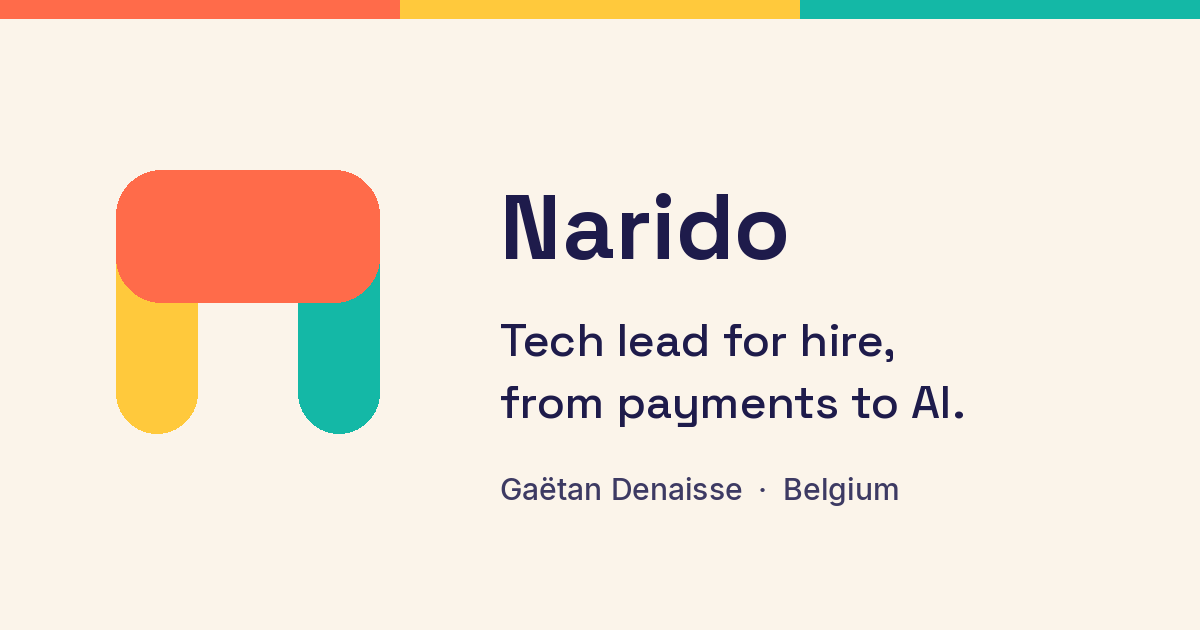
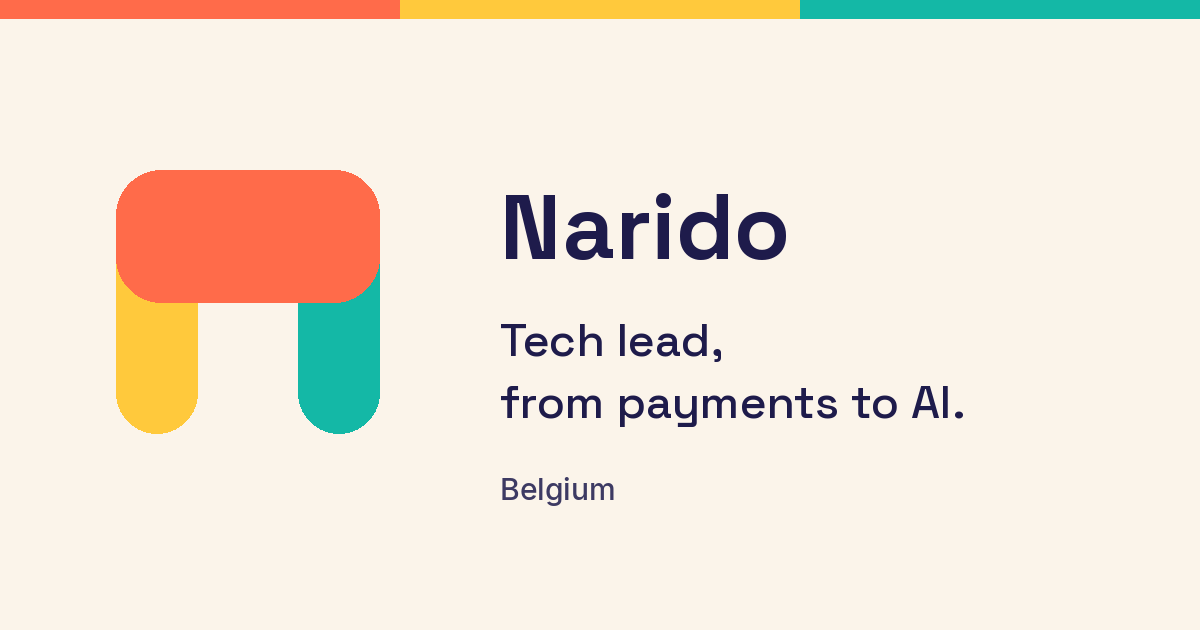
Frame the hero blocks and write the site as Narido.
Keep the blocks fully in view on load, drop the solo and "for hire" wording, and publish VAT BE1010525808 while the address stays off the page.

Changed region(s): [[0.4008, 0.754, 0.6167, 0.8143], [0.5858, 0.5127, 0.74, 0.573], [0.6475, 0.754, 0.74, 0.8143]]

diff --git a/src/i18n/en.ts b/src/i18n/en.ts
@@ -3,69 +3,69 @@ import type { SiteCopy } from './types';
 export const en: SiteCopy = {
   meta: {
     lang: 'en',
-    title: 'Narido: tech lead for hire, from payments to AI',
+    title: 'Narido: tech lead, from payments to AI',
     description:
-      'Gaëtan Denaisse, a one-person IT company in Belgium. Tech lead for hire across payments, cloud, DevOps, delivery, and AI. More than 20 years, still hands-on.',
-    ogAlt: 'Narido. Tech lead for hire, from payments to AI. Gaëtan Denaisse, Belgium.',
+      'Narido is an IT company in Belgium. Technical leadership across payments, cloud, DevOps, delivery, and AI. More than 20 years, still hands-on.',
+    ogAlt: 'Narido. Tech lead, from payments to AI. Belgium.',
   },
   nav: {
     home: 'Narido, front page',
-    services: 'What I do',
+    services: 'Services',
     work: 'Work',
     background: 'Background',
     contact: 'Contact',
     menu: 'Menu',
     close: 'Close menu',
-    cta: 'Write to me',
+    cta: 'Get in touch',
     skip: 'Skip to content',
     landmark: 'On this page',
   },
   hero: {
-    eyebrow: 'Belgium · one-person company',
-    titleLead: 'Tech lead for hire,',
+    eyebrow: 'Belgium',
+    titleLead: 'Tech lead,',
     titleTail: 'from payments to AI.',
-    lede: 'I am Gaëtan. I have spent more than 20 years writing software and leading the people who write it. Most of that time went into payments, and into moving systems to the cloud without drama. I still do the work myself, including the AI work.',
-    primary: 'Write to me',
+    lede: 'Narido leads the technical work on products that have to hold up, from payments platforms through cloud moves and on to release. AI sits in that same work now.',
+    primary: 'Get in touch',
     secondary: 'See the work',
   },
   services: {
-    title: 'What I do',
+    title: 'Services',
     intro:
-      'I come in as a technical lead for a stretch of time. I stay close to the code. When I leave, the team can carry the work.',
+      'Narido joins a team for a stretch of work and stays close to the code. When the engagement ends, the team can carry it.',
     items: [
       {
         id: 'lead',
         index: '01',
         accent: 'coral',
         title: 'Tech lead / fractional CTO',
-        text: 'Some teams call this a fractional CTO. I hold the technical thread on a product: architecture, priorities, code review, and the decisions that are easy to postpone. When the team is blocked, I write the code.',
+        text: 'Some teams call this a fractional CTO. Narido holds the technical thread on a product: architecture, priorities, code review, and the decisions that are easy to postpone. When a team is blocked, Narido writes the code.',
       },
       {
         id: 'cloud',
         index: '02',
         accent: 'sunflower',
         title: 'Cloud & DevOps',
-        text: 'I move systems to the cloud and leave the pipelines and environments behind me. A release should be a command, not a ritual that depends on someone remembering the steps.',
+        text: 'Systems move to the cloud with the pipelines and environments left in place. A release should be a command, not a ritual that depends on someone remembering the steps.',
       },
       {
         id: 'ai',
         index: '03',
         accent: 'teal',
         title: 'AI adoption',
-        text: 'I put AI into a job the team already has. A report that used to take an afternoon. A first pass over a pile of documents. I set it up so a person can check the result before it goes out.',
+        text: 'AI goes into a job the team already has. A report that used to take an afternoon. A first pass over a pile of documents. A person can check the result before it goes out.',
       },
       {
         id: 'quality',
         index: '04',
         accent: 'ink',
         title: 'Quality & delivery',
-        text: 'I shorten the distance between a change and production. Fewer tests, aimed at the failures that actually hurt. Releases small enough that a problem is easy to find.',
+        text: 'The distance between a change and production gets shorter. Fewer tests, aimed at the failures that actually hurt. Releases small enough that a problem is easy to find.',
       },
     ],
   },
   work: {
-    title: "Things I've built",
-    intro: 'A few products from recent work. Ask if you want the story behind one of them.',
+    title: 'Selected work',
+    intro: 'Recent products. The detail behind any of them is available on request.',
     visit: 'Visit',
     newTab: 'opens in a new tab',
     projects: [
@@ -119,8 +119,7 @@ export const en: SiteCopy = {
   },
   background: {
     title: 'Background',
-    intro:
-      'More than 20 years of hands-on work. Narido is just me. I stay with a system until it holds.',
+    intro: 'More than 20 years of hands-on work. Narido stays with a system until it holds.',
     eras: [
       {
         id: 'payments',
@@ -144,7 +143,7 @@ export const en: SiteCopy = {
         id: 'quality',
         accent: 'coral',
         title: 'Quality engineering',
-        text: 'Checks placed where a bad release would actually be caught. I would rather have a few sharp tests than a board full of green.',
+        text: 'Checks placed where a bad release would actually be caught. A few sharp tests, rather than a board full of green.',
       },
       {
         id: 'delivery',
@@ -156,14 +155,14 @@ export const en: SiteCopy = {
         id: 'ai',
         accent: 'teal',
         title: 'AI adoption for teams',
-        text: 'The recent work. I add AI to products and to the way a team produces them. Same rule as the rest: someone can read the output and stand behind it.',
+        text: 'The recent work. AI added to products and to the way a team produces them. Same rule as the rest: someone can read the output and stand behind it.',
       },
     ],
   },
   contact: {
     title: 'Contact',
     intro:
-      'Tell me what you are trying to ship. A few sentences on the product, and where it is stuck, is enough.',
+      'Say what you are trying to ship. A few sentences on the product, and where it is stuck, is enough.',
     name: 'Name',
     emailLabel: 'Email',
     need: 'What do you need',
@@ -188,15 +187,14 @@ export const en: SiteCopy = {
     country: 'Belgium',
     countryLabel: 'Country',
     vatLabel: 'VAT',
+    vat: 'BE1010525808',
     addressLabel: 'Address',
-    vatTodo: 'TODO: Belgian VAT number',
-    addressTodo: 'TODO: address',
-    placeholderLabel: 'Placeholders, still to fill in',
+    address: 'TODO: address',
     email: 'hello@narido.eu',
     linkedinUrl: 'https://linkedin.com/in/gaetandenaisse',
   },
   footer: {
-    positioning: 'Tech lead for hire, from payments to AI.',
+    positioning: 'Tech lead, from payments to AI.',
     rights: 'Gaëtan Denaisse',
   },
   notFound: {

diff --git a/src/scripts/hero-scene.ts b/src/scripts/hero-scene.ts
@@ -1,4 +1,5 @@
 import {
+  Box3,
   CanvasTexture,
   CircleGeometry,
   DirectionalLight,
@@ -12,6 +13,7 @@ import {
   Scene,
   SRGBColorSpace,
   Timer,
+  Vector3,
   WebGLRenderer,
 } from "three";
 import { RoundedBoxGeometry } from "three/addons/geometries/RoundedBoxGeometry.js";
@@ -93,9 +95,9 @@ export function mountHero(
   renderer.outputColorSpace = SRGBColorSpace;
 
   const scene = new Scene();
-  const camera = new PerspectiveCamera(28, 1, 0.1, 40);
-  camera.position.set(0.1, 0.2, 8);
-  camera.lookAt(0, -0.05, 0);
+  const camera = new PerspectiveCamera(30, 1, 0.1, 80);
+  camera.position.set(0, 0, 12);
+  camera.lookAt(0, 0, 0);
 
   scene.add(new HemisphereLight(0xfff8ef, 0xd9d0c3, 1.15));
   const key = new DirectionalLight(0xffffff, 1.7);
@@ -155,6 +157,61 @@ export function mountHero(
   let visible = true;
   let sized = false;
 
+  const bounds = new Box3();
+  const corner = new Vector3();
+
+  function applyPose(snap: number, elapsed: number): void {
+    const settled = MathUtils.clamp(snap, 0, 1);
+    const floatAmp = 1 - settled;
+    BLOCKS.forEach((spec, index) => {
+      const mesh = meshes[index];
+      if (!mesh) return;
+      mesh.position.set(
+        MathUtils.lerp(spec.spreadPos[0], spec.stackPos[0], snap),
+        MathUtils.lerp(spec.spreadPos[1], spec.stackPos[1], snap) +
+          Math.sin(elapsed * 0.9 + spec.phase) * 0.07 * floatAmp,
+        MathUtils.lerp(spec.spreadPos[2], spec.stackPos[2], snap),
+      );
+      mesh.rotation.set(
+        MathUtils.lerp(spec.spreadRot[0], 0, snap),
+        MathUtils.lerp(spec.spreadRot[1], 0, snap),
+        MathUtils.lerp(spec.spreadRot[2], 0, snap),
+      );
+    });
+  }
+
+  function spreadRadius(): number {
+    group.rotation.set(0, 0, 0);
+    applyPose(0, 0);
+    group.updateMatrixWorld(true);
+    let max = 0;
+    for (const mesh of meshes) {
+      bounds.setFromObject(mesh);
+      for (const x of [bounds.min.x, bounds.max.x]) {
+        for (const y of [bounds.min.y, bounds.max.y]) {
+          for (const z of [bounds.min.z, bounds.max.z]) {
+            corner.set(x, y, z);
+            max = Math.max(max, corner.length());
+          }
+        }
+      }
+    }
+    return max + 0.16;
+  }
+
+  function frameCamera(): void {
+    const radius = spreadRadius();
+    const vFov = MathUtils.degToRad(camera.fov);
+    const aspect = Math.max(camera.aspect || 1, 0.6);
+    const hFov = 2 * Math.atan(Math.tan(vFov / 2) * aspect);
+    const distance = Math.max(radius / Math.sin(vFov / 2), radius / Math.sin(hFov / 2)) * 1.22;
+    camera.position.set(0, 0, distance);
+    camera.near = Math.max(0.05, distance - radius * 4);
+    camera.far = distance + radius * 6;
+    camera.lookAt(0, 0, 0);
+    camera.updateProjectionMatrix();
+  }
+
   function resize(): boolean {
     const width = canvas.clientWidth;
     const height = canvas.clientHeight;
@@ -162,7 +219,7 @@ export function mountHero(
     renderer.setPixelRatio(Math.min(window.devicePixelRatio || 1, 1.5));
     renderer.setSize(width, height, false);
     camera.aspect = width / height;
-    camera.updateProjectionMatrix();
+    frameCamera();
     sized = true;
     return true;
   }
@@ -181,20 +238,7 @@ export function mountHero(
     const elapsed = timer.getElapsed();
     const snap = easeOutBack(scrollProgress());
     const settled = MathUtils.clamp(snap, 0, 1);
-    const floatAmp = 1 - settled;
-
-    BLOCKS.forEach((spec, index) => {
-      const mesh = meshes[index];
-      if (!mesh) return;
-      mesh.position.x = MathUtils.lerp(spec.spreadPos[0], spec.stackPos[0], snap);
-      mesh.position.y =
-        MathUtils.lerp(spec.spreadPos[1], spec.stackPos[1], snap) +
-        Math.sin(elapsed * 0.9 + spec.phase) * 0.07 * floatAmp;
-      mesh.position.z = MathUtils.lerp(spec.spreadPos[2], spec.stackPos[2], snap);
-      mesh.rotation.x = MathUtils.lerp(spec.spreadRot[0], 0, snap);
-      mesh.rotation.y = MathUtils.lerp(spec.spreadRot[1], 0, snap);
-      mesh.rotation.z = MathUtils.lerp(spec.spreadRot[2], 0, snap);
-    });
+    applyPose(snap, elapsed);
 
     const tilt = 1 - settled * 0.7;
     const idle = Math.sin(elapsed * 0.28) * 0.1 * tilt;

diff --git a/src/styles/global.css b/src/styles/global.css
@@ -201,14 +201,26 @@
 
 @media (min-width: 1024px) and (prefers-reduced-motion: no-preference) {
   .hero-pin {
-    height: 148vh;
+    height: 148svh;
   }
 
   .hero-sticky {
     position: sticky;
     top: 0;
-    height: 100vh;
+    height: 100svh;
     box-sizing: border-box;
+    overflow: visible;
+  }
+}
+
+.hero-visual {
+  width: min(100%, 26rem);
+  overflow: visible;
+}
+
+@media (min-width: 1024px) {
+  .hero-visual {
+    width: min(100%, 32rem, calc(100svh - 11rem));
   }
 }
 

diff --git a/src/i18n/types.ts b/src/i18n/types.ts
@@ -98,10 +98,9 @@ export interface SiteCopy {
     country: string;
     countryLabel: string;
     vatLabel: string;
+    vat: string;
     addressLabel: string;
-    vatTodo: string;
-    addressTodo: string;
-    placeholderLabel: string;
+    address: string;
     email: string;
     linkedinUrl: string;
   };

diff --git a/README.md b/README.md
@@ -1,6 +1,6 @@
 # Narido
 
-Website for Narido, Gaëtan Denaisse's one-person IT company in Belgium.
+Website for Narido, an IT company in Belgium.
 
 English copy lives in `src/i18n/en.ts`. French and Dutch can be added as new dictionaries and listed in `astro.config.mjs`.
 
